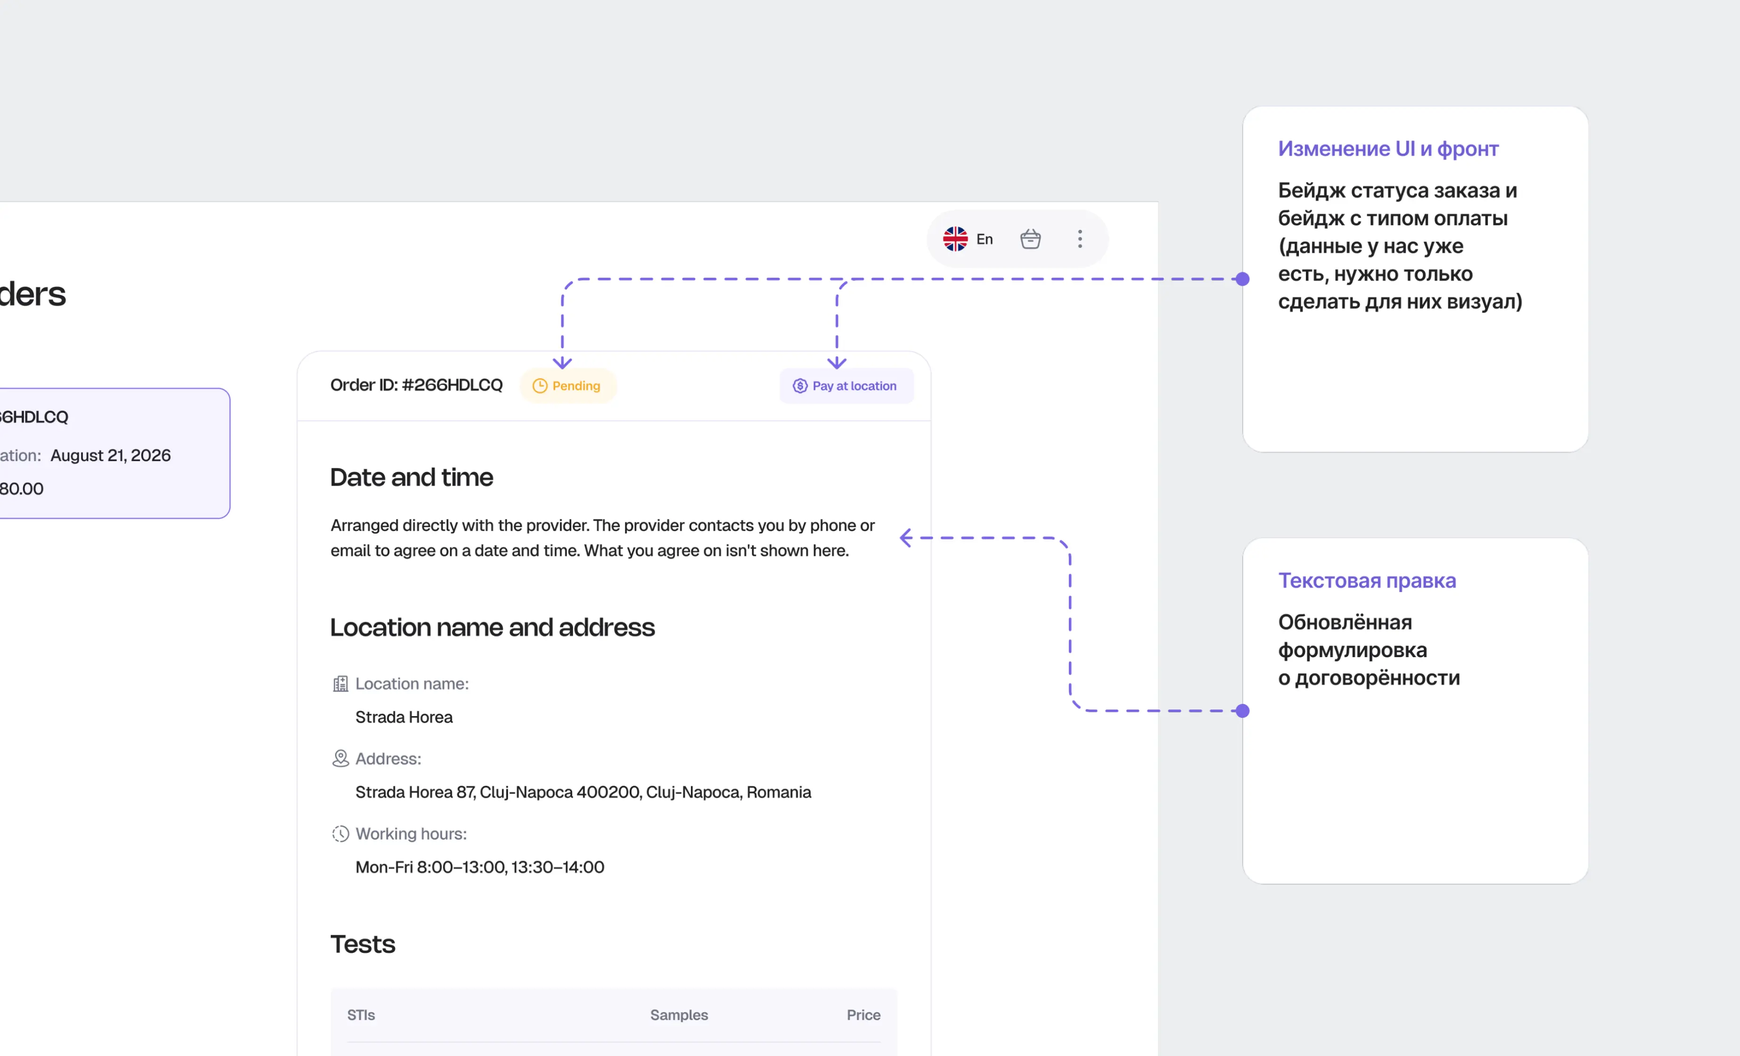
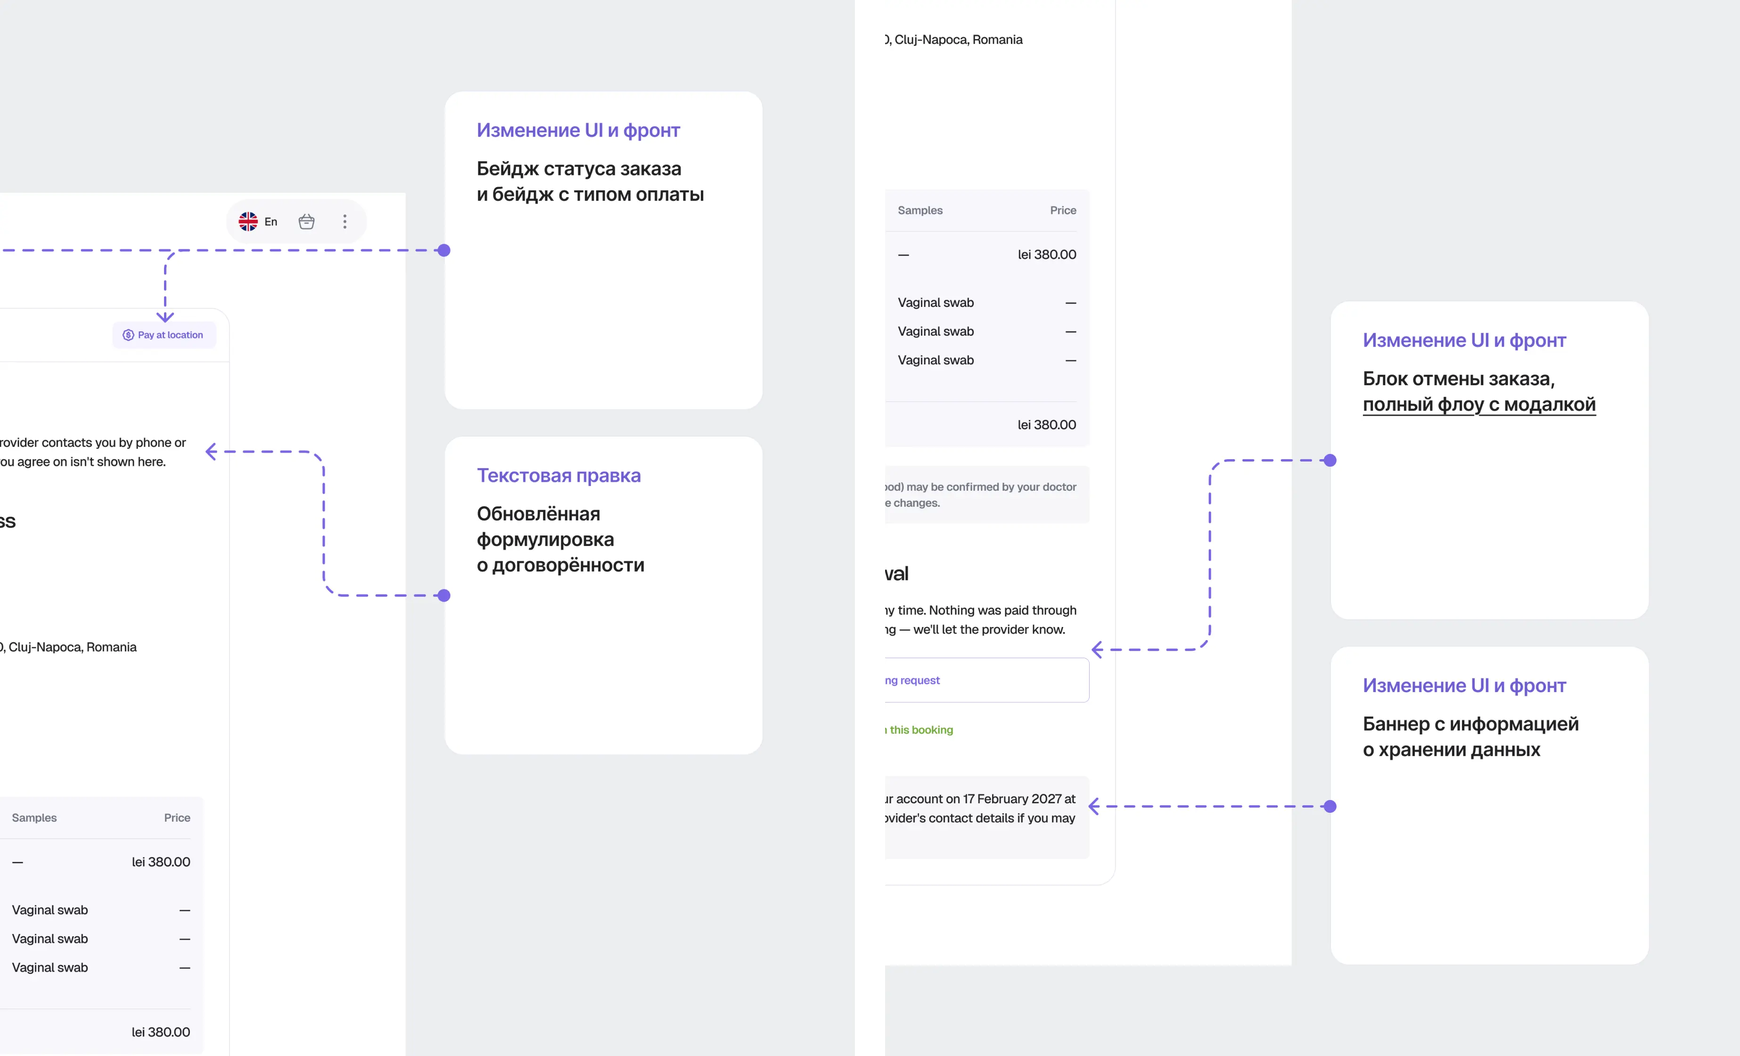
Tighten B2C order and entry narrative, add map date figure, and update footer roles.

diff --git a/cases/b2c.html b/cases/b2c.html
@@ -777,66 +777,33 @@
 
                     <div class="case-block">
                       <h3 class="heading">
-                        Четыре конфигурации&nbsp;— ещё&nbsp;не&nbsp;четыре
-                        сценария
+                        Одна карта на&nbsp;все&nbsp;ветки заказа
                       </h3>
                       <div class="case-prose">
                         <p class="text">
-                          В&nbsp;каждой конфигурации заказ может пройти разные
-                          пути: человек пришёл на&nbsp;приём, пришёл
-                          после&nbsp;истечения срока хранения данных,
-                          не&nbsp;пришёл, отменил заказ сам&nbsp;или&nbsp;получил
-                          отмену от&nbsp;партнёра.
+                          Конфигурация задаёт только условия, а&nbsp;дальше
+                          заказ может пойти разными путями: человек пришёл,
+                          пришёл уже&nbsp;после&nbsp;удаления данных,
+                          не&nbsp;пришёл, отменил сам&nbsp;или&nbsp;получил
+                          отмену от&nbsp;партнёра. Без&nbsp;бронирования
+                          таких путей шесть, с&nbsp;ним&nbsp;— восемь,
+                          и&nbsp;каждый проходит в&nbsp;двух вариантах оплаты.
+                          Всего 29&nbsp;сценариев.
                         </p>
                         <p class="text">
-                          Я&nbsp;проверяла каждый путь с&nbsp;обеих сторон:
-                          что&nbsp;видит пользователь и&nbsp;какие письма
-                          получает, что&nbsp;видит партнёр в&nbsp;портале
-                          и&nbsp;какое действие должен выполнить,
-                          в&nbsp;каком состоянии после&nbsp;этого остаётся
-                          заказ.
-                        </p>
-                        <p class="text">
-                          Набор сценариев зависит от&nbsp;бронирования:
-                          у&nbsp;партнёров без&nbsp;него их&nbsp;шесть,
-                          с&nbsp;ним&nbsp;— восемь, и&nbsp;каждый набор
-                          проходит в&nbsp;двух вариантах оплаты.
-                          Ещё&nbsp;одна ветка отличается у&nbsp;партнёров
-                          без&nbsp;лицензии. Всего получилось двадцать девять
-                          сценариев для&nbsp;проверки. Не&nbsp;каждому нужен
-                          отдельный экран, но&nbsp;для&nbsp;каждого нужно было
-                          определить поведение.
-                        </p>
-                      </div>
-                    </div>
-
-                    <div class="case-block">
-                      <h3 class="heading">
-                        Разложила ветки на&nbsp;одну карту
-                      </h3>
-                      <div class="case-prose">
-                        <p class="text">
-                          По&nbsp;одной оси&nbsp;карты я&nbsp;разместила
-                          конфигурации партнёра, по&nbsp;другой&nbsp;—
-                          сценарии заказа. В&nbsp;каждой ячейке&nbsp;—
-                          что&nbsp;видит пользователь, какое у&nbsp;заказа
-                          состояние, какие письма уходят, что&nbsp;делает
-                          партнёр.
-                        </p>
-                        <p class="text">
-                          Так&nbsp;я&nbsp;проверяла не&nbsp;только наличие
-                          экранов, но&nbsp;и&nbsp;согласованность сообщений.
-                          Например, не&nbsp;обещает&nbsp;ли&nbsp;письмо то,
+                          Я&nbsp;разложила их&nbsp;на&nbsp;одну карту:
+                          по&nbsp;одной оси&nbsp;— конфигурации партнёра,
+                          по&nbsp;другой&nbsp;— сценарии. В&nbsp;каждой ячейке
+                          записано, что&nbsp;видит пользователь, какие письма
+                          получает, что&nbsp;делает партнёр
+                          и&nbsp;в&nbsp;каком состоянии остаётся заказ.
+                          Так&nbsp;я&nbsp;проверяла согласованность:
+                          не&nbsp;обещает&nbsp;ли&nbsp;письмо того,
                           чего&nbsp;нет&nbsp;в&nbsp;заказе,
-                          и&nbsp;знает&nbsp;ли&nbsp;партнёр, что&nbsp;от&nbsp;него
-                          ждут.
-                        </p>
-                        <p class="text">
-                          Основой карты стали экраны, которые уже&nbsp;работали
-                          в&nbsp;продукте,&nbsp;— я&nbsp;снимала их&nbsp;с&nbsp;прода.
-                          Путей между&nbsp;ними для&nbsp;разных конфигураций
-                          не&nbsp;было&nbsp;— их&nbsp;я проектировала с&nbsp;нуля,
-                          внутри существующей модели заказа.
+                          и&nbsp;знает&nbsp;ли&nbsp;партнёр,
+                          чего&nbsp;от&nbsp;него ждут. Экраны для&nbsp;карты
+                          я&nbsp;сняла с&nbsp;прода, а&nbsp;пути
+                          между&nbsp;ними спроектировала с&nbsp;нуля.
                         </p>
                       </div>
                     </div>
@@ -861,11 +828,12 @@
                       </h3>
                       <div class="case-prose">
                         <p class="text">
-                          У&nbsp;партнёра выключено наше бронирование.
-                          Его&nbsp;предложения остаются на&nbsp;карте,
-                          но&nbsp;выбрать слот через&nbsp;AskBefore нельзя.
-                          Значит, интерфейс должен объяснить,
-                          как&nbsp;человек узнает время приёма.
+                          Ситуация: у&nbsp;партнёра выключено наше
+                          бронирование. Его&nbsp;предложения остаются
+                          на&nbsp;карте, но&nbsp;выбрать слот
+                          через&nbsp;AskBefore нельзя. Значит, интерфейс
+                          должен объяснить, как&nbsp;человек узнает время
+                          приёма.
                         </p>
                         <p class="text">
                           Я&nbsp;разложила сценарий на&nbsp;обе&nbsp;стороны.
@@ -909,6 +877,21 @@
                         не&nbsp;попадают в&nbsp;выдачу.
                       </p>
                     </div>
+
+                    <figure class="case-figure">
+                      <div class="case-figure__media case-figure__media--874">
+                        <img
+                          src="../assets/images/cases/b2c/b2c-14.webp"
+                          alt="Пользователь выбирает дату и время приёма на карте"
+                          width="3692"
+                          height="3500"
+                        />
+                      </div>
+                      <figcaption class="text case-figure__caption">
+                        Пользователь выбирает дату и&nbsp;время приёма
+                        на&nbsp;карте
+                      </figcaption>
+                    </figure>
 
                     <div class="case-block">
                       <h3 class="heading">
@@ -973,23 +956,6 @@
                           если&nbsp;ограничение влияет на&nbsp;решение человека,
                           он&nbsp;должен увидеть его&nbsp;в&nbsp;самом сценарии.
                         </p>
-                        <p class="text">
-                          Правило одно на&nbsp;все&nbsp;ветки: там,
-                          где&nbsp;продукт чего‑то не&nbsp;знает,
-                          не&nbsp;контролирует или&nbsp;собирается сделать
-                          что‑то с&nbsp;деньгами человека, он&nbsp;это&nbsp;называет.
-                          В&nbsp;домене, где&nbsp;человек и&nbsp;так&nbsp;тревожен,
-                          умолчание читается как&nbsp;подвох.
-                        </p>
-                        <p class="text">
-                          Например, отмена: люди склеивают отмену и&nbsp;возврат,
-                          поэтому мысль "отмена у&nbsp;нас, возврат решает
-                          партнёр" повторяется трижды&nbsp;— в&nbsp;блоке
-                          заказа, в&nbsp;модалке и&nbsp;в&nbsp;чекбоксе.
-                          За&nbsp;каждой ячейкой карты стоит
-                          такое&nbsp;же&nbsp;решение&nbsp;— своё
-                          для&nbsp;своей ветки.
-                        </p>
                       </div>
                     </div>
 
@@ -1006,6 +972,17 @@
                         Настройка конфигураций заказа пользователя
                       </figcaption>
                     </figure>
+
+                    <div class="case-prose">
+                      <p class="text">
+                        Правило одно на&nbsp;все&nbsp;ветки: там,
+                        где&nbsp;продукт чего‑то не&nbsp;знает,
+                        не&nbsp;контролирует или&nbsp;собирается сделать
+                        что‑то с&nbsp;деньгами человека, он&nbsp;это&nbsp;называет.
+                        В&nbsp;домене, где&nbsp;человек и&nbsp;так&nbsp;тревожен,
+                        умолчание читается как&nbsp;подвох.
+                      </p>
+                    </div>
                   </div>
                 </section>
 
@@ -1029,23 +1006,7 @@
                           В&nbsp;целевой схеме на&nbsp;десктопе
                           и&nbsp;в&nbsp;мобильном браузере остаются карта
                           и&nbsp;заказы, для&nbsp;обмена человек переходит
-                          в&nbsp;приложение. В&nbsp;приложении доступны
-                          оба&nbsp;сценария.
-                        </p>
-                        <p class="text">
-                          Мы&nbsp;решили не&nbsp;поддерживать веб-обмен.
-                          Это&nbsp;означает дополнительный барьер:
-                          без&nbsp;установки приложения человек не&nbsp;сможет
-                          обменяться результатами через&nbsp;AskBefore.
-                          Пошли на&nbsp;это&nbsp;осознанно&nbsp;— носитель
-                          здесь влияет не&nbsp;только на&nbsp;удобство,
-                          но&nbsp;и&nbsp;на&nbsp;то, насколько человек
-                          контролирует свои медицинские документы.
-                        </p>
-                        <p class="text">
-                          Карта при&nbsp;этом работает и&nbsp;в&nbsp;вебе,
-                          и&nbsp;в&nbsp;приложении. Продукты остаются
-                          независимыми, общий у&nbsp;них&nbsp;только вход.
+                          в&nbsp;приложение, где&nbsp;доступны оба&nbsp;сценария.
                         </p>
                       </div>
                     </div>
@@ -1063,6 +1024,24 @@
                         Экраны мобильного приложения (карта, обмен)
                       </figcaption>
                     </figure>
+
+                    <div class="case-prose">
+                      <p class="text">
+                        Мы&nbsp;решили не&nbsp;поддерживать веб-обмен.
+                        Это&nbsp;означает дополнительный барьер:
+                        без&nbsp;установки приложения человек не&nbsp;сможет
+                        обменяться результатами через&nbsp;AskBefore.
+                        Пошли на&nbsp;это&nbsp;осознанно&nbsp;— носитель
+                        здесь влияет не&nbsp;только на&nbsp;удобство,
+                        но&nbsp;и&nbsp;на&nbsp;то, насколько пользователь
+                        контролирует свои медицинские документы.
+                      </p>
+                      <p class="text">
+                        Карта при&nbsp;этом работает и&nbsp;в&nbsp;вебе,
+                        и&nbsp;в&nbsp;приложении. Продукты остаются
+                        независимыми, общий у&nbsp;них&nbsp;только вход.
+                      </p>
+                    </div>
                   </div>
                 </section>
 
@@ -1183,7 +1162,7 @@
           <p class="heading footer__credit">
             Ксения Шевелёва
             <span class="subheading footer__role"
-              >| Product Designer &amp;&nbsp;Design Engineer</span
+              >| Продуктовый дизайнер</span
             >
           </p>
           <p class="text footer__copy">© 2026</p>

diff --git a/index.html b/index.html
@@ -420,7 +420,7 @@
       <footer class="footer">
         <p class="heading footer__credit">
           Ксения Шевелёва
-          <span class="subheading footer__role">| Product Designer &amp;&nbsp;Design Engineer</span>
+          <span class="subheading footer__role">| Продуктовый дизайнер</span>
         </p>
         <p class="text footer__copy">© 2026</p>
       </footer>

diff --git a/cases/ds.html b/cases/ds.html
@@ -763,7 +763,7 @@
           <p class="heading footer__credit">
             Ксения Шевелёва
             <span class="subheading footer__role"
-              >| Product Designer &amp;&nbsp;Design Engineer</span
+              >| Продуктовый дизайнер</span
             >
           </p>
           <p class="text footer__copy">© 2026</p>

diff --git a/en/cases/b2c.html b/en/cases/b2c.html
@@ -1100,7 +1100,7 @@
           <p class="heading footer__credit">
             Ksenia Shevelyova
             <span class="subheading footer__role"
-              >| Product Designer &amp;&nbsp;Design Engineer</span
+              >| Product Designer</span
             >
           </p>
           <p class="text footer__copy">© 2026</p>

diff --git a/en/cases/ds.html b/en/cases/ds.html
@@ -746,7 +746,7 @@
           <p class="heading footer__credit">
             Ksenia Shevelyova
             <span class="subheading footer__role"
-              >| Product Designer &amp;&nbsp;Design Engineer</span
+              >| Product Designer</span
             >
           </p>
           <p class="text footer__copy">© 2026</p>

diff --git a/en/index.html b/en/index.html
@@ -453,7 +453,7 @@
           <p class="heading footer__credit">
             Ksenia Shevelyova
             <span class="subheading footer__role"
-              >| Product Designer &amp;&nbsp;Design Engineer</span
+              >| Product Designer</span
             >
           </p>
           <p class="text footer__copy">© 2026</p>

diff --git a/css/main.css b/css/main.css
@@ -747,6 +747,10 @@ body {
   aspect-ratio: 922 / 784;
 }
 
+.case-figure__media--874 {
+  aspect-ratio: 922 / 874;
+}
+
 .case-figure__media img {
   position: absolute;
   inset: 0;
